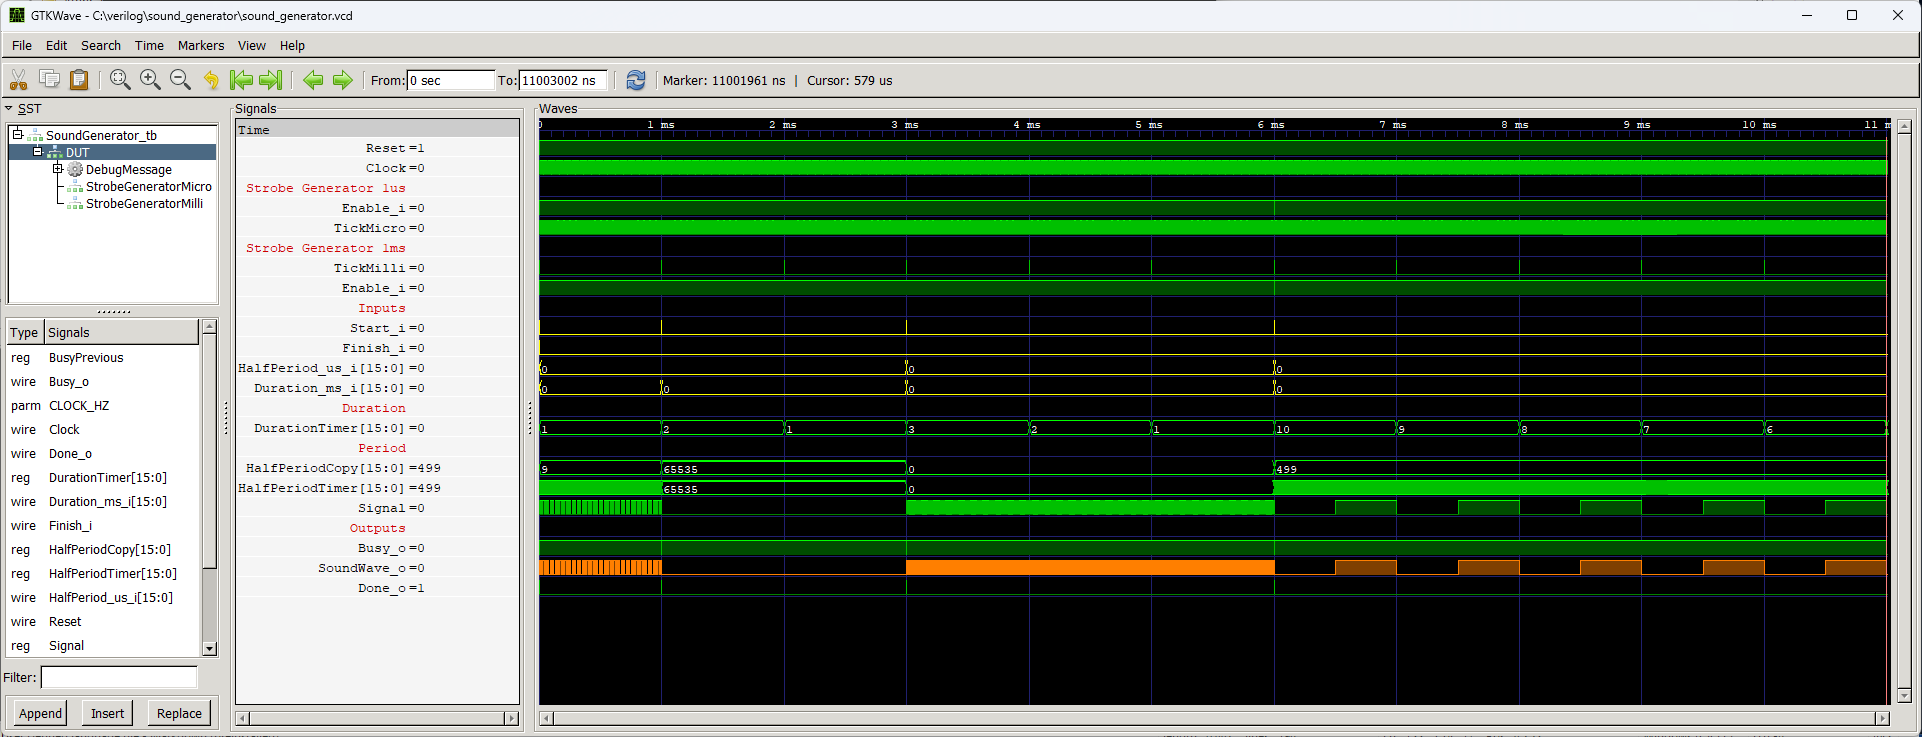
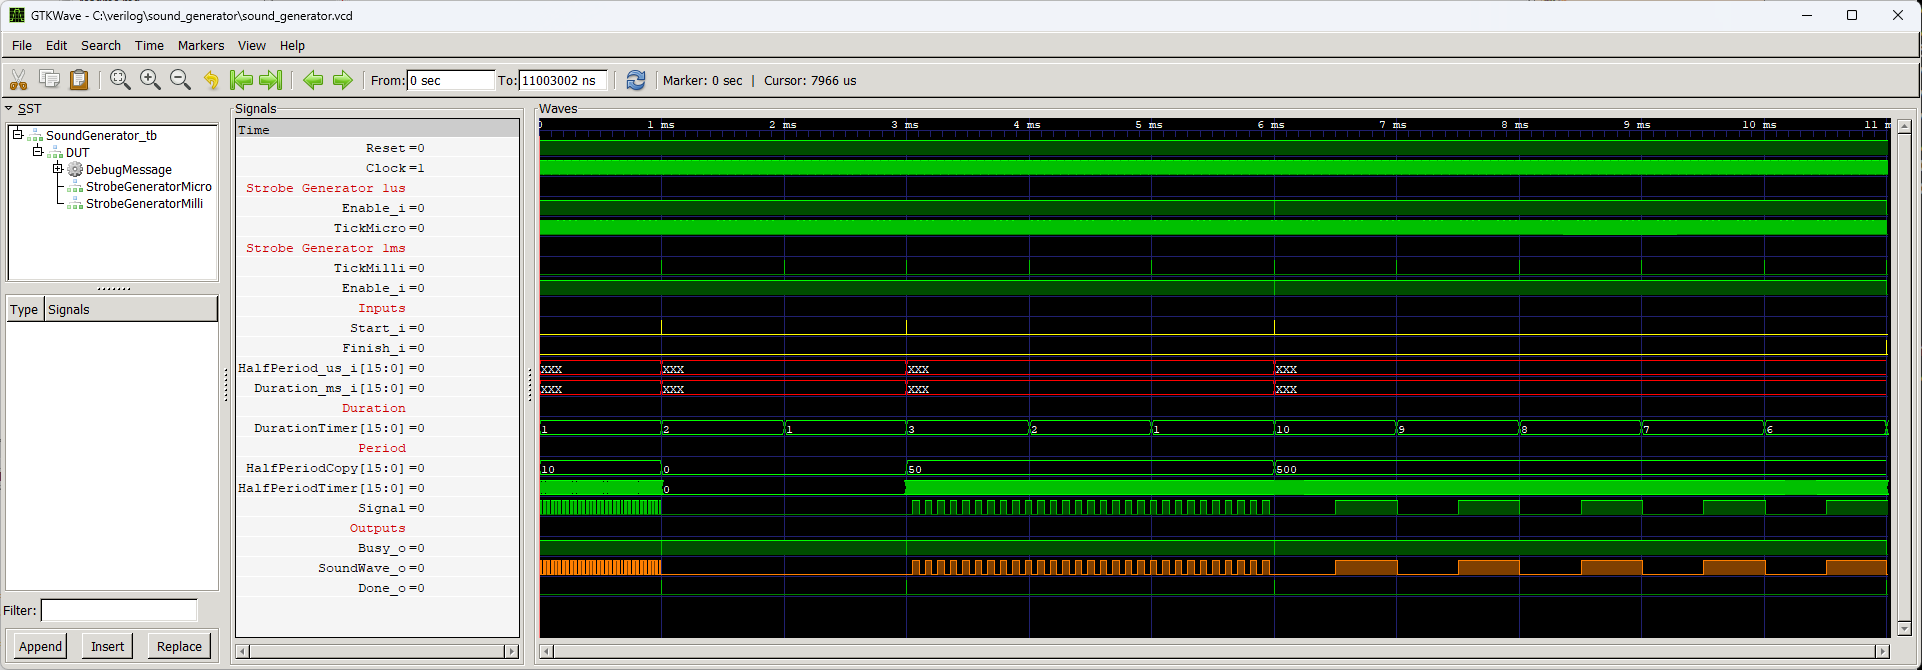
Optimization

diff --git a/sound_generator/readme.md b/sound_generator/readme.md
@@ -36,16 +36,18 @@ The `SoundGenerator` module generates sound of the desired frequency and duratio
 ## Simulation
 
 ![Simulation](simulation.png "Simulation")
+![Simulation](simulation2.png "Simulation")
 
 ## Console output
 
-	VCD info: dumpfile sound_generator.vcd opened for output.
-	===== START =====
-			Time Durat HaPer        Freq
-		 1.100us     1    10       50000
-	  1001.200us     2     0           x
-	  3001.200us     3     1      500000
-	  6001.200us     0    99        5050
-	  6001.800us    10   500        1000
-	===== END =====
-	sound_generator_tb.v:116: $finish called at 11003002 (1ns)
+    VCD info: dumpfile sound_generator.vcd opened for output.
+    ===== START =====
+            Time Durat HaPer        Freq
+         1.100us     1    10       50000
+      1001.200us     2     0           x
+      3001.200us     3    50       10000
+      6001.200us     0    99        5050
+      6001.800us    10   500        1000
+    ===== END =====
+    sound_generator_tb.v:116: $finish called at 11003002 (1ns)
+
